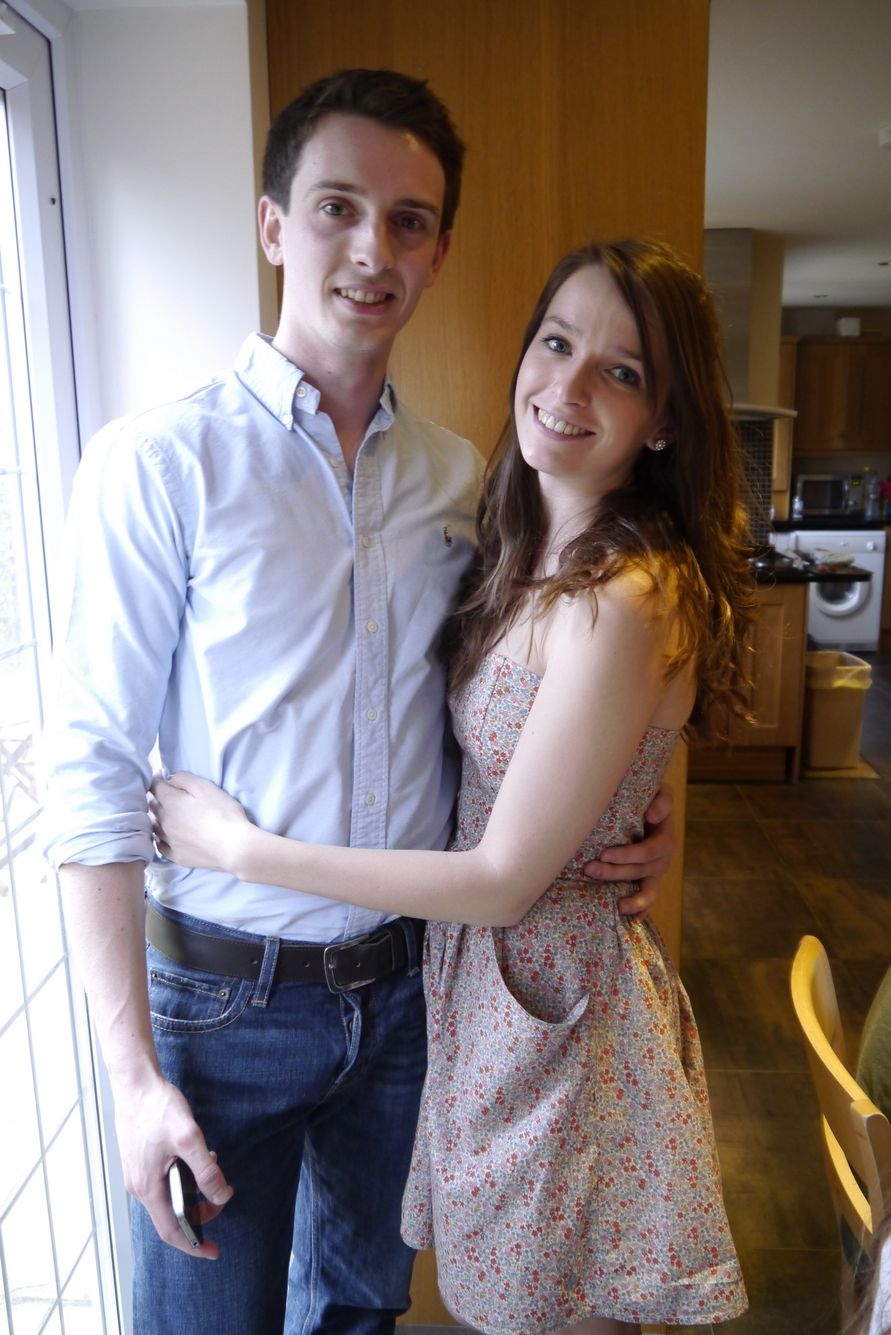
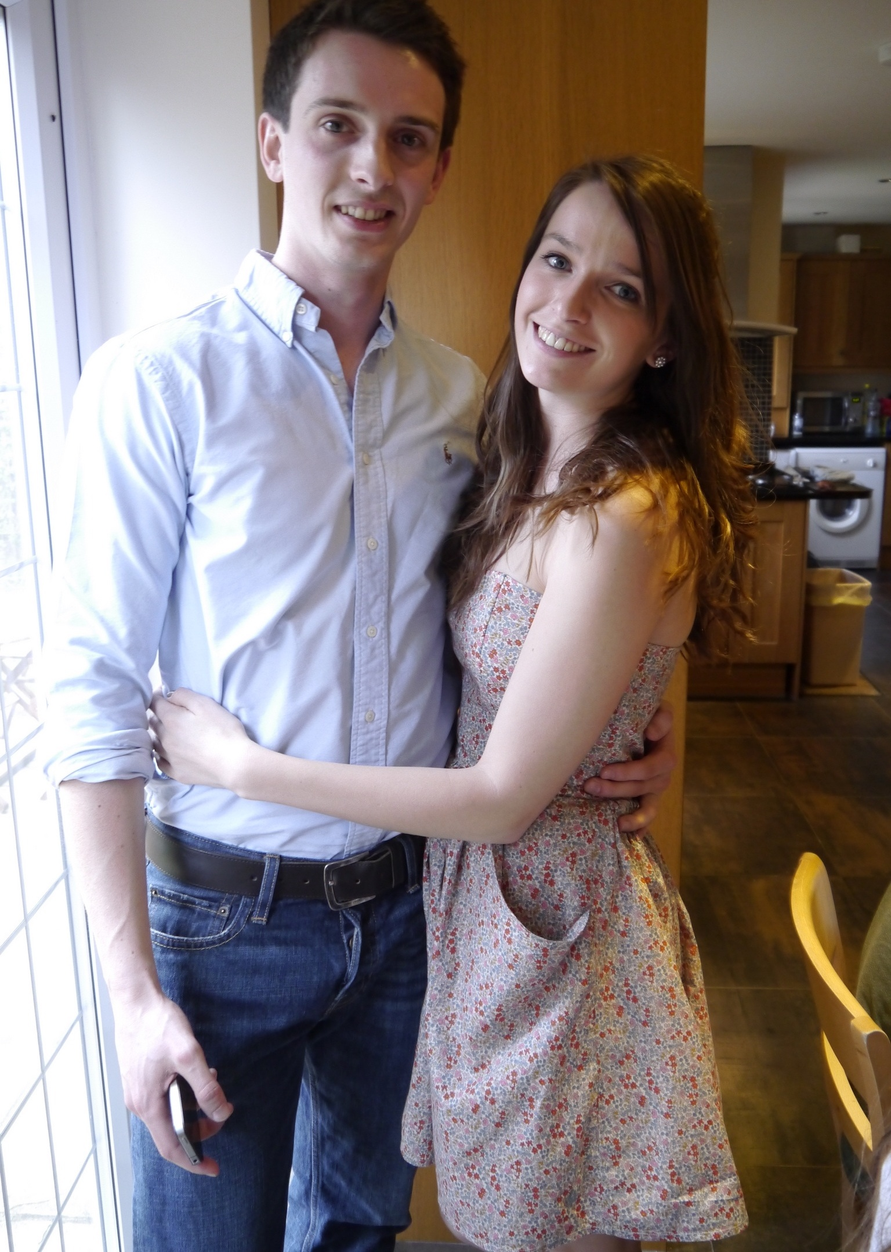
fix images

diff --git a/index.html b/index.html
@@ -120,42 +120,42 @@ function navClick(link) {
 			<div class="container" style="margin-bottom: 5em;">
 				<div class="row">
 					<div class="col-md-8 col-sm-8">
-						<div class="fh5co-grid animate-box" style="background-image: url(images/couple/20160730_213321.jpg); background-position-y: -107px;">
+						<div class="fh5co-grid animate-box" style="background-image: url(images/couple/20160730_213321.jpg);">
 							<!--a class="image-popup text-center" href="#"-->
 
 							<!--/a-->
 						</div>
 					</div>
 					<div class="col-md-4 col-sm-4">
-						<div class="fh5co-grid animate-box" style="background-image: url(images/couple/IMG_3667.JPG); background-position-y: -94px;">
+						<div class="fh5co-grid animate-box" style="background-image: url(images/couple/IMG_3667.JPG);">
 							<!--a class="image-popup text-center" href="#"-->
 
 							<!--/a-->
 						</div>
 					</div>
 					<div class="col-md-4 col-sm-4">
-						<div class="fh5co-grid animate-box" style="background-image: url(images/couple/IMG_3676.JPG); background-position-y: -106px;">
+						<div class="fh5co-grid animate-box" style="background-image: url(images/couple/IMG_3676.JPG);">
 							<!--a class="image-popup text-center" href="#"-->
 
 							<!--/a-->
 						</div>
 					</div>
 					<div class="col-md-8 col-sm-8">
-						<div class="fh5co-grid animate-box" style="background-image: url(images/couple/IMG_3670.JPG); background-position-y: -106px;">
+						<div class="fh5co-grid animate-box" style="background-image: url(images/couple/IMG_3670.JPG);">
 							<!--a class="image-popup text-center" href="#"-->
 
 							<!--/a-->
 						</div>
 					</div>
 					<div class="col-md-8 col-sm-8">
-						<div class="fh5co-grid animate-box" style="background-image: url(images/couple/IMG_3101.JPG); background-position-y: -323px;">
+						<div class="fh5co-grid animate-box" style="background-image: url(images/couple/IMG_3101.JPG);">
 							<!--a class="image-popup text-center" href="#"-->
 
 							<!--/a-->
 						</div>
 					</div>
 					<div class="col-md-4 col-sm-4">
-						<div class="fh5co-grid animate-box" style="background-image: url(images/couple/_1010121.JPG); background-position-y: -32px;">
+						<div class="fh5co-grid animate-box" style="background-image: url(images/couple/_1010121.JPG);">
 							<!--a class="image-popup text-center" href="#"-->
 
 							<!--/a-->

diff --git a/css/style.css b/css/style.css
@@ -505,7 +505,7 @@ figure {
 .fh5co-grid {
   height: 302px;
   background-size: cover;
-  background-position: center center;
+  background-position: center top;
   margin-bottom: 30px;
   position: relative;
   -webkit-border-radius: 7px;
